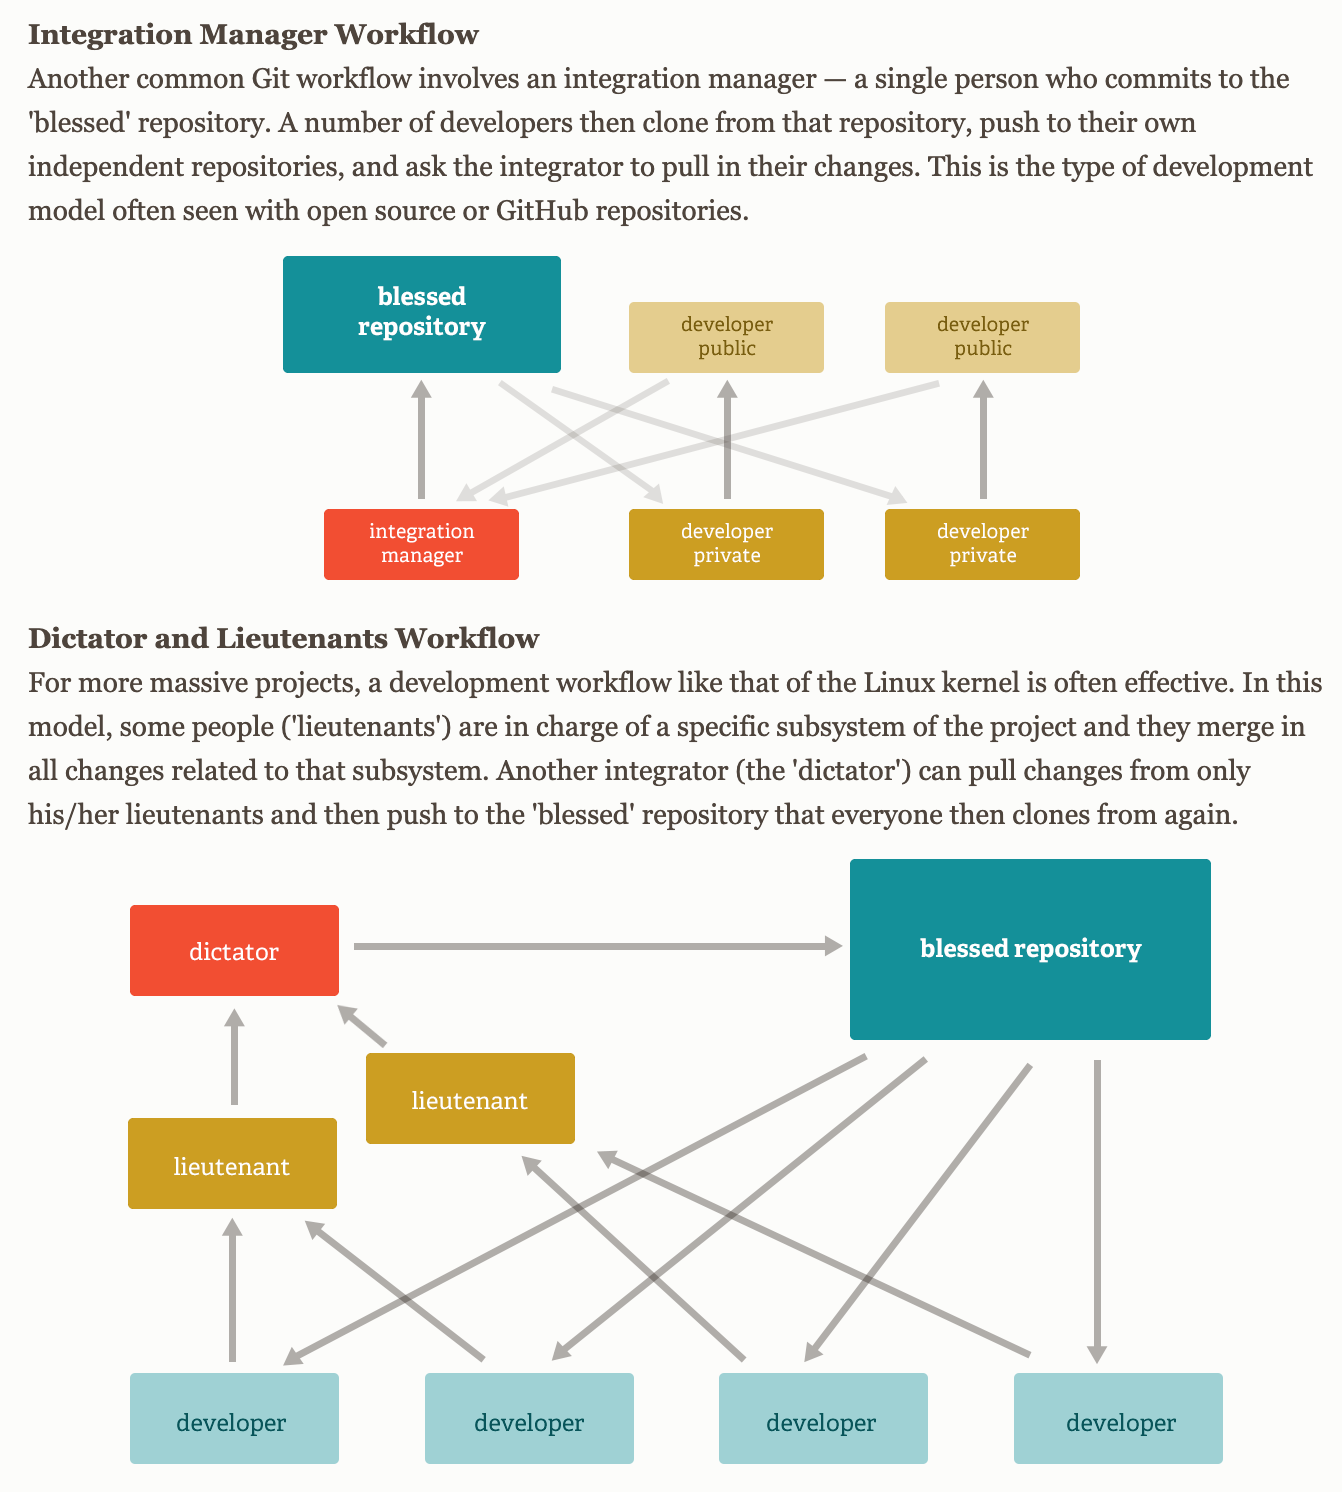
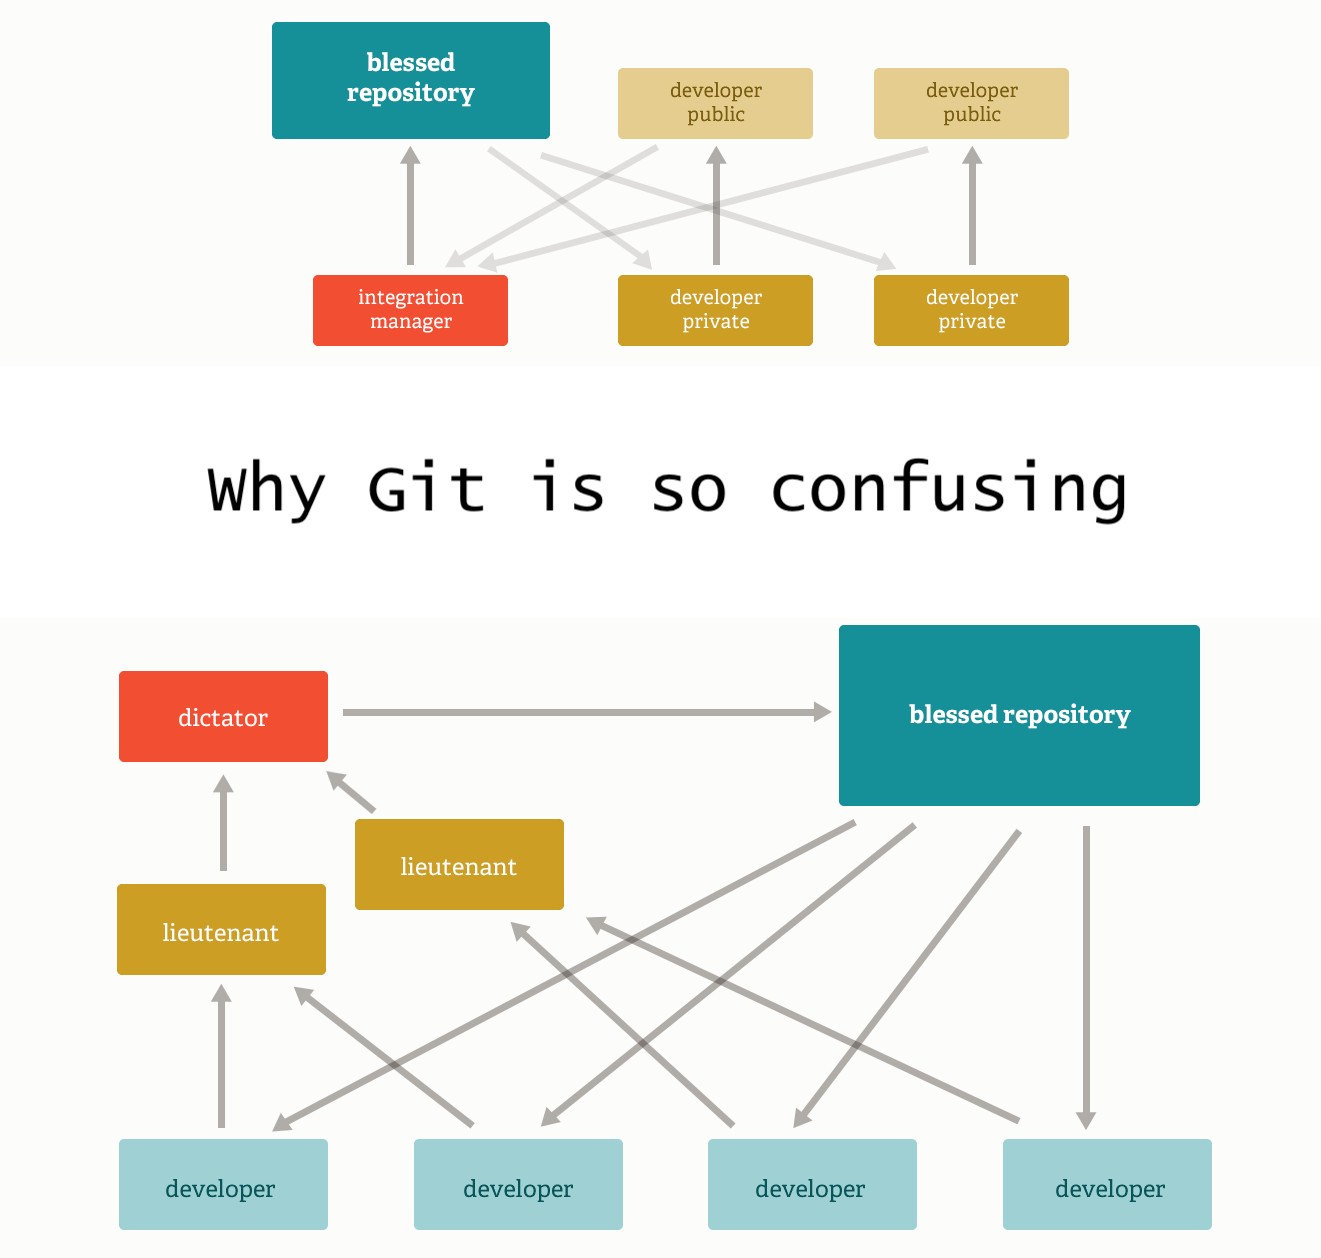
Added the second half of the content text. More tweaks and refinements

Changed region(s): [[0.0, 0.0, 0.9932, 0.9921], [0.2483, 0.93, 0.2793, 0.961]]

diff --git a/index.html b/index.html
@@ -117,12 +117,114 @@
                     throughout your journey.</li>
             </ol>
             <p>
-                    Note: I didn’t mention the 3rd category, scope of knowledge — that’s basically showing how a beginner 
-                    absorbs broad fundamentals early on before specializing (and decreasing total breadth of knowledge) later on.<br>
-                    <br>
-                    ~phew~ sorry for the big rant on learning curves — on to the meat and potatoes of prework week 1.
+                Note: I didn’t mention the 3rd category, scope of knowledge — that’s basically showing how a beginner 
+                absorbs broad fundamentals early on before specializing (and decreasing total breadth of knowledge) later on.<br>
+                <br>
+                ~phew~ sorry for the big rant on learning curves — on to the meat and potatoes of prework week 1.
+            
+            <h3>DVCS: Git and GitHub</h3>
+
+            </p>
+                The focus of our first week of prework was getting up to speed on Git and Github.<br>
+                <br>
+                First, a definition:
             </p>
 
+            <blockquote>
+                "Git is a free and open source distributed version control system designed to handle everything 
+                from small to very large projects with speed and efficiency.” <cite>https://git-scm.com/</cite>
+            </blockquote>
+
+            <p>
+                Great — but what is a DVCS?<br>
+                <br>
+                To start, VCS is a Version Control System. My one-week-of-coding-experience definition of a VCS 
+                is that it allows you to track and document changes to code (including reverting to older versions 
+                of code). A Distributed Version Control System (DVCS) is a VCS that is mirrored on multiple devices. 
+                For example, if I have a full copy of the code on my computer and you have an identical copy on yours, 
+                then we have a <em>distributed</em> copy of the code.<br>
+                <br>
+                But what if I change my copy — now our copies don’t align? That’s where the “version control system” 
+                comes into play.<br>
+                <br>
+                A DVCS like Git tracks any changes I make, and then allows me to merge those changes into a shared code. 
+                You could then update your copy of the code to match the shared code, and add your own changes.<br>
+                <br>
+                <a href="https://github.com" title="GitHub">GitHub</a> is a cloud based code repository. So if we each 
+                have our copies of the code, we could place a third copy on GitHub. This saves us time, as I no longer 
+                have to drive to your house for us to compare code versions. 
+            </p>    
+            
+            <img src="assets/img/git-stages.png" alt="Example of Git Workflow">
+
+            <p>
+                This oversimplified explanation of GitHub doesn’t even begin to get into some of the more complex 
+                (or, to me, confusing) functions of Git.
+            </p>
+
+            <h3>Challenges</h3>
+                
+            <p>
+                I found Git pretty hard to understand. For one, working in command line meant that there wasn’t much 
+                of a user interface. It sometimes felt like you were flying in the dark — enter commands and receiving 
+                little to no visual or text confirmation of what you were doing.
+            </p>
+
+            <img src="assets/img/why-git-is-confusing.png" alt="Why Git is so confusing">
+
+            <p>
+                One thing that helped me was reaching out to my brother. 
+                <a href="https://github.com/1GWilly8" title="William's GitHub">William</a> 
+                graduated with a <a href="https://www.hanover.edu/academics/programs/cs" 
+                title="Hanover College Computer Science"><abbr title="Computer Science">CS</abbr> degree</a> 
+                in 2018 and has been working for an <a href="https://glowlabs.co" title="Glow Labs">
+                <abbr title="Internet of Things">IOT</abbr> company</a> in Denver. I told him that Git and 
+                Command Line were confusing and that I was afraid of messing things up if I typed in the wrong 
+                commands. He told me to make mistakes and practice using Git/CL — I wasn’t likely to break 
+                anything too badly and I would learn more by doing.
+            </p>
+
+            <h3>Reflection: Prework Week 1 (and 2)</h3>
+
+            <p>
+                Since I’m writing this near the end of week 2, I’m gonna reflect 
+                on both weeks, despite the rest of this post being about week 1 topics.<br>
+                <br>
+                I really enjoyed the first week of the developer BootCamp. We are working 
+                remotely and I wasn’t really sure what the workload would be like. I found it 
+                challenging but manageable, but (perhaps more importantly) I found it to be really 
+                fun! I really enjoyed that there is just so much to learn at this phase. I really 
+                liked that some much of the work involves getting hands on creating web pages. 
+                Even though the websites we were building were very basic, it felt very satisfying 
+                to be able to apply what you just learned and see the changes come to life!<br>
+                <br>
+                I’m really excited to continue working through these prework topics. I’ve enjoyed 
+                some of the design aspects of CSS, and am really looking forward to working with 
+                JavaScript to build more responsive websites.<br>
+                <br>
+                I found Git and CSS realtivly harder than HTML. The application process for the Bootcamp 
+                involved an HTML assignment, relatively a Coding Academy course on HTML to help me 
+                with that. I found Git challenging in what I mentioned earlier, the lack of a nice 
+                <abbr title="User Interface">UI</abbr> and some confusion about the various intricacies 
+                of branching, merging, rebasing, etc. I found CSS challenging mostly in the amount of 
+                information to absorbe. I think that with both Git and CSS, more time spent working with 
+                them will help me to better digest.<br>
+                <br>
+                A final reflection is that I really love working in an academic setting that doesn’t 
+                involve quizzes or grades. I think that this is really refreshing — instead of making 
+                flashcard and doing route memorization to pass a quiz, you can approach the subject 
+                matter in whichever way helps you best absorb and apply the material.
+            </p>
+
+            <h3>A Bonus Resource</h3>
+
+            <p>
+                The prompt for our blogs asks for a resource that would help others in the program. 
+                I’m sure that most bootcampers know of or use something like this, but I found an 
+                online coding platform like <a href="https://codepen.io" title="CodePen">CodePen</a> 
+                really helpful. I didn’t use it for major projects, but when I learned something new 
+                and wanted to try applying it quickly, I could hope over to codepen and draft something 
+                up in seconds.
             </p>
         </article>
 

diff --git a/assets/css/style.css b/assets/css/style.css
@@ -1,7 +1,8 @@
 /* General Page Style */
 
 body {
-    margin-top: 40px;
+    margin-top: 10px;
+    margin-bottom: 50px;
     font-family: 'Roboto', sans-serif;
     font-size: 16px;
     line-height: 2;
@@ -15,10 +16,21 @@ h1, h2, h3 {
     width: 50%;
 }
 
+/* Option to switch the colored section to the title
+h1 {
+    width: 470px;
+    background-color: rgba(98, 203, 245, 0.4);
+    border-radius: 15px;
+}
+*/
+
 h2 {
-    font-size: 1.25em;
+    font-size: 1em;
     margin-top: -20px;
     margin-bottom: 35px;
+    width: 150px;
+    background-color: rgba(98, 203, 245, 0.4);
+    border-radius: 15px;
 }
 
 /* Nav Bar */
@@ -93,11 +105,11 @@ a:hover {
 }
 
 article a:link {
-    color: darksalmon;
+    color: rgb(98, 203, 245);
 }
 
 article a:visited {
-    color: green;
+    color: rgb(55, 111, 133);
 }
 
 p {
